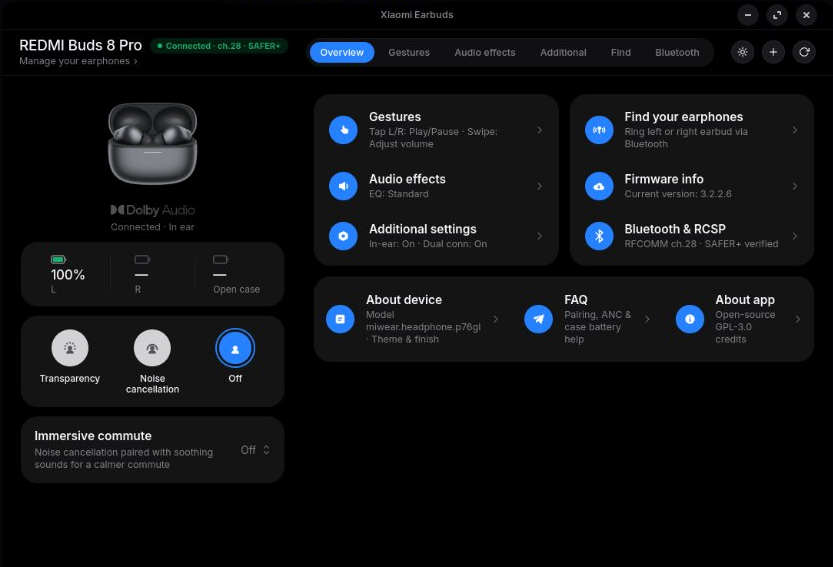
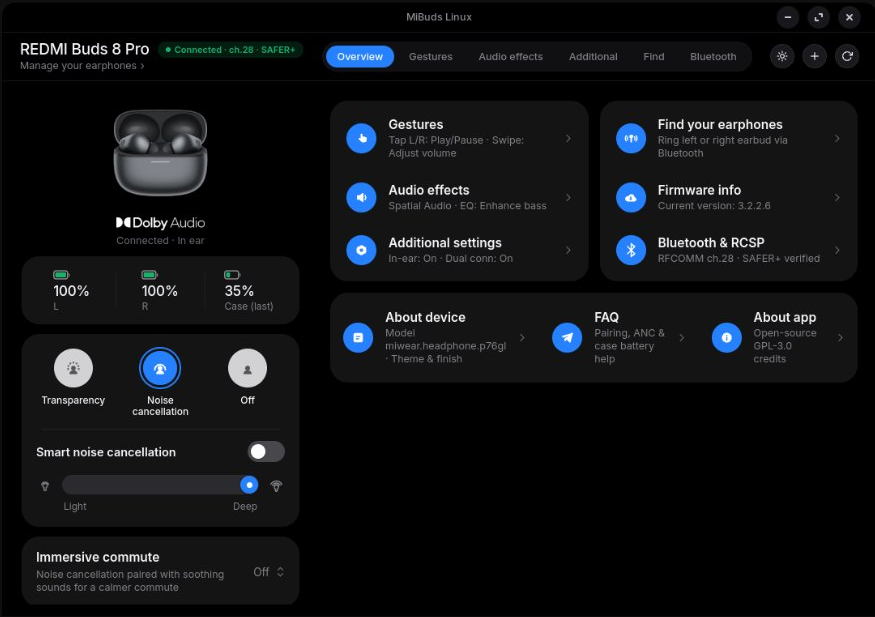
Fix case battery retention and add README screenshots

diff --git a/web_ui/app.js b/web_ui/app.js
@@ -354,7 +354,7 @@
       else caseLabelEl.textContent = isLive ? "Open case" : "Case";
     }
 
-    const showCase = Boolean(battery.show_case) || Boolean(battery.case_available);
+    const showCase = Boolean(battery.show_case) || Boolean(battery.case_available) || battery.case !== null;
     $("#battery-case-divider").classList.toggle("hidden", !showCase);
     $("#battery-case-col").classList.toggle("hidden", !showCase);
 

diff --git a/controllers/bluetooth/redmi_buds_8_pro.py b/controllers/bluetooth/redmi_buds_8_pro.py
@@ -517,8 +517,13 @@ class RedmiBuds8ProService:
     def _load_preferences(self) -> None:
         """Load non-personal UI preferences only (never MAC, serial, or stale telemetry)."""
         try:
-            if self._prefs_path.exists():
-                saved = json.loads(self._prefs_path.read_text(encoding="utf-8"))
+            source_path = self._prefs_path
+            if not source_path.exists():
+                legacy_path = source_path.parent.parent / "xiaomi-earbuds-linux" / "preferences.json"
+                if legacy_path.exists():
+                    source_path = legacy_path
+            if source_path.exists():
+                saved = json.loads(source_path.read_text(encoding="utf-8"))
                 if isinstance(saved, dict):
                     color = saved.get("color")
                     if color in VALID_COLORS:
@@ -542,6 +547,8 @@ class RedmiBuds8ProService:
                             val = theme.get(key)
                             if isinstance(val, str) and HEX_COLOR_RE.match(val):
                                 target[key] = val.upper()
+                if source_path != self._prefs_path:
+                    self._save_preferences()
         except Exception:
             pass
 

diff --git a/README.md b/README.md
@@ -12,11 +12,19 @@ A native GTK3 + WebKit2 desktop app inspired by the Xiaomi Earbuds mobile interf
 
 <br>
 
-<img src="docs/screenshots/overview-dark.png" alt="MiBuds Linux dark OLED interface" width="760">
+<img src="docs/screenshots/overview-dark.png" alt="MiBuds Linux dark OLED interface with ANC slider and battery telemetry" width="760">
 
 </div>
 
 > **Disclaimer:** MiBuds Linux is an independent, unofficial community open-source project and is **not affiliated with, endorsed by, or sponsored by Xiaomi Inc., Redmi, or Dolby Laboratories**. All product names, logos, and imagery belong to their respective owners and are used purely for hardware identification and visual familiarity.
+
+---
+
+## Screenshots
+
+| Live Charging & Case Battery | Custom Theme Support |
+| :---: | :---: |
+| <img src="docs/screenshots/overview-charging.png" alt="Live charging indicator and case battery percentage" width="420"> | <img src="docs/screenshots/overview-custom-theme.png" alt="Custom accent, background, and card colors theme" width="420"> |
 
 ---
 
